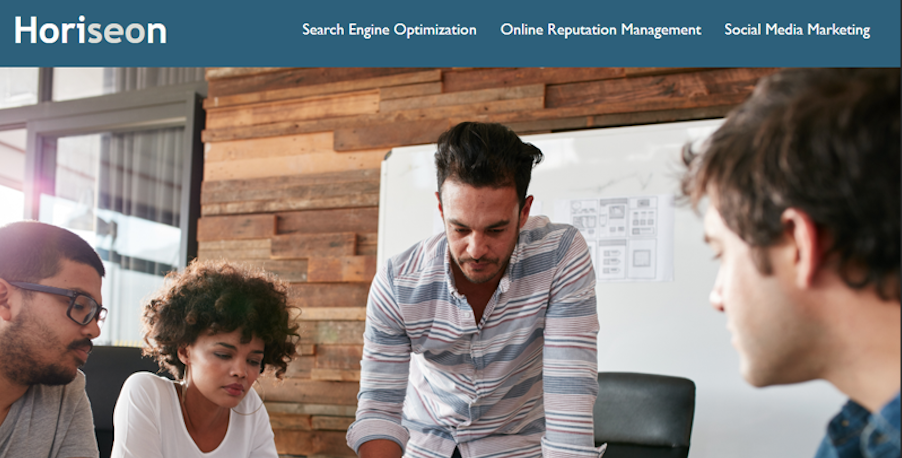
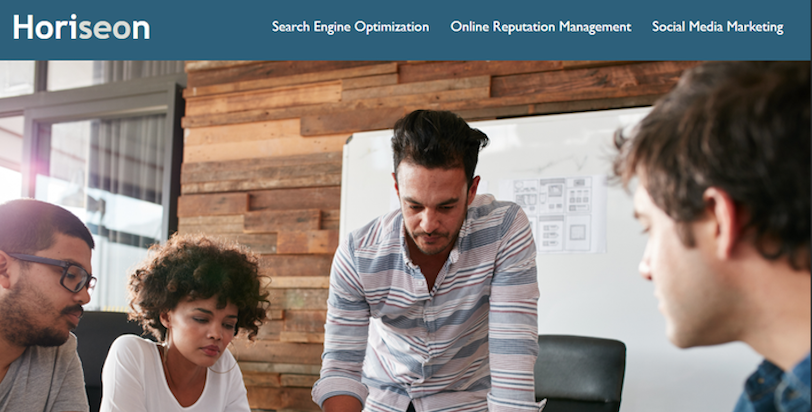
big pic resize

Changed region(s): [[0.5542, 0.0583, 0.7697, 0.0874], [0.3387, 0.0583, 0.5234, 0.0874], [0.8005, 0.0583, 0.9544, 0.0874]]

diff --git a/assets/style.css b/assets/style.css
@@ -261,6 +261,10 @@
       width: 95%;
     }
 
+    .work-big img {
+      max-width: 50%;
+    }
+
     .work {
       flex: 0 100%;
     }
